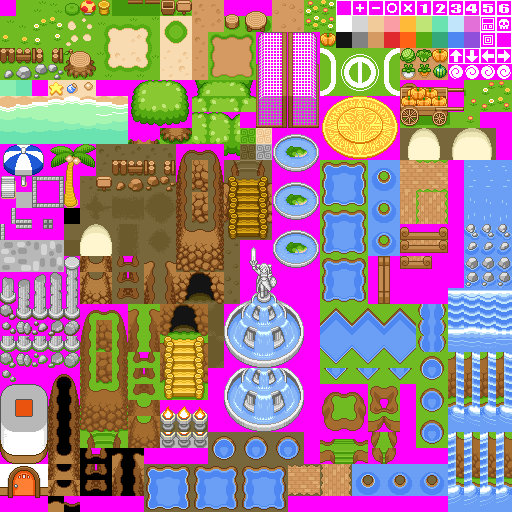
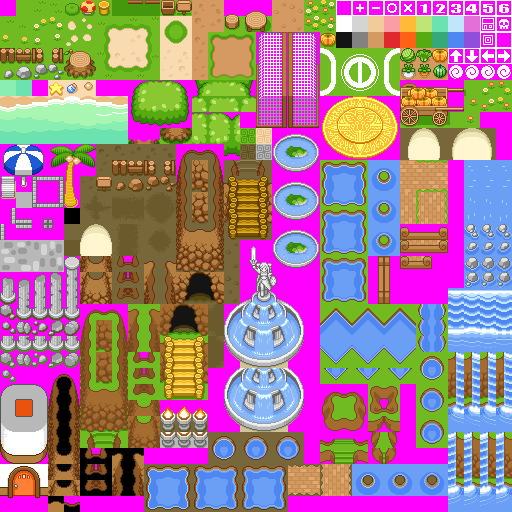
画像の更新とマップ画像３を追加

Changed region(s): [[0.4375, 0.5, 0.5938, 0.8438]]

diff --git a/SboGrpData/resource.h b/SboGrpData/resource.h
@@ -19,12 +19,13 @@
 #define IDB_PNG14                       219
 #define IDB_PNG12                       220
 #define IDB_PNG16                       222
+#define IDB_PNG17                       223
 
 // Next default values for new objects
 // 
 #ifdef APSTUDIO_INVOKED
 #ifndef APSTUDIO_READONLY_SYMBOLS
-#define _APS_NEXT_RESOURCE_VALUE        223
+#define _APS_NEXT_RESOURCE_VALUE        224
 #define _APS_NEXT_COMMAND_VALUE         40001
 #define _APS_NEXT_CONTROL_VALUE         1000
 #define _APS_NEXT_SYMED_VALUE           101
